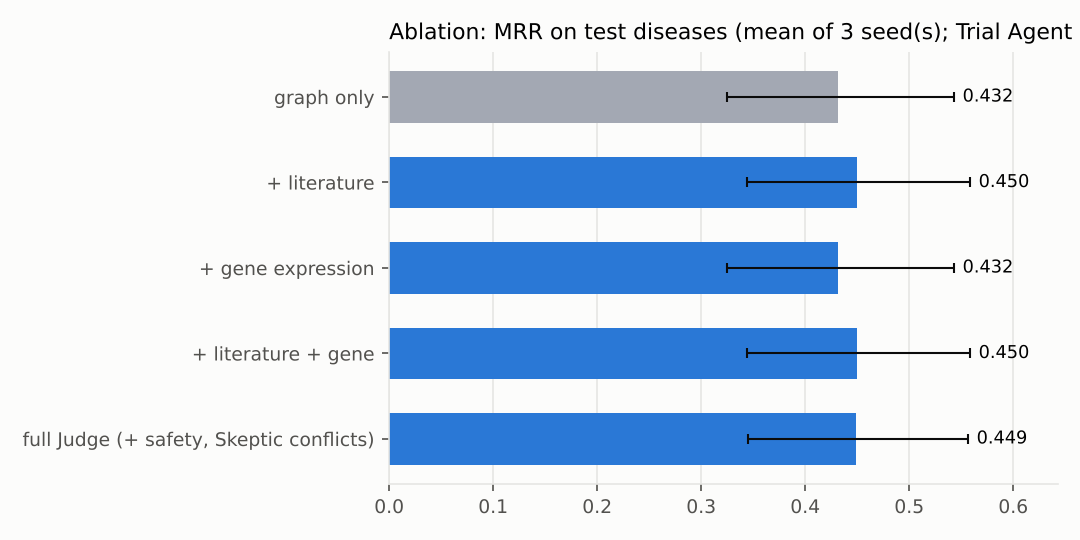
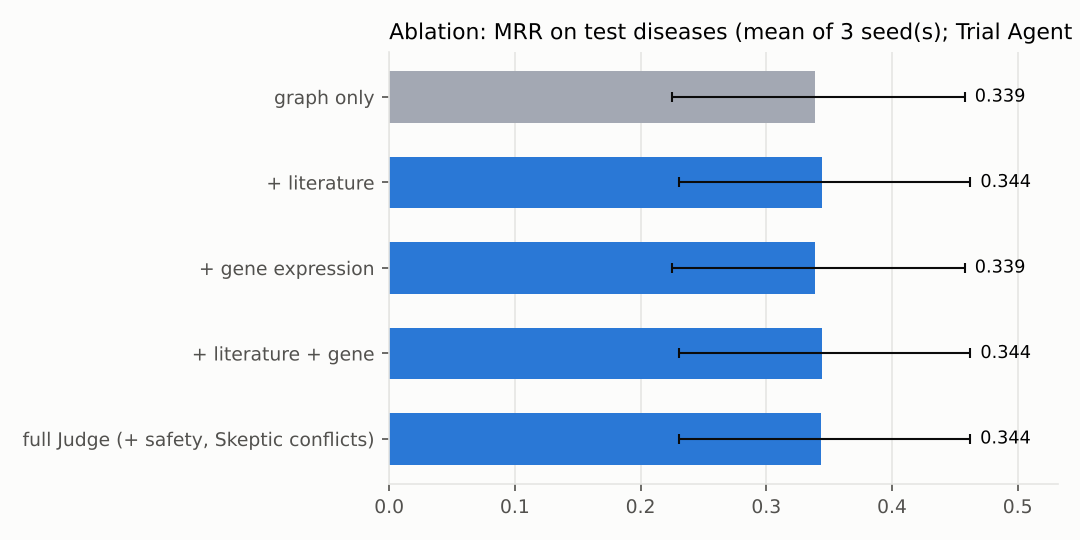
Validation report and figures on the corrected split

diff --git a/reports/VALIDATION.md b/reports/VALIDATION.md
@@ -4,25 +4,62 @@ All numbers below were measured by the project's own pipeline. Nothing is copied
 
 ## 1. Disease-held-out link prediction (zero-shot)
 
-Test set: 2098 drug–disease pairs (indication + off-label) over 229 held-out diseases. Each true drug is ranked among 2,755 approved drugs, with the disease's other true drugs filtered out. A labelled disease within two MONDO hops of a test disease is also held out (no parent, child or sibling leakage). Brackets: 95% bootstrap CI, resampling diseases.
+Test set: 2196 drug–disease pairs (indication + off-label) over 227 held-out diseases. Each true drug is ranked among 2,755 approved drugs, with the disease's other true drugs filtered out. Diseases joined by a direct MONDO link (parent, child or near-duplicate) are always on the same side of the split, so no test disease has such a neighbour in training (checked by `tests/test_data.py`). Brackets: 95% bootstrap CI, resampling diseases.
 
 | Model | MRR | Hits@1 | Hits@10 | Hits@50 | Median rank | AUROC |
 |---|---|---|---|---|---|---|
-| Random | 0.004 [0.002–0.005] | 0.000 | 0.005 [0.002–0.008] | 0.019 | 1400 | 0.499 |
-| Popularity (drug degree) | 0.135 [0.104–0.168] | 0.101 | 0.175 [0.137–0.220] | 0.256 | 291 | 0.830 |
-| Network proximity (PPI) | 0.038 [0.022–0.057] | 0.026 | 0.048 [0.027–0.072] | 0.094 | 748 | 0.668 |
-| Similar-disease kNN | 0.381 [0.310–0.457] | 0.330 | 0.472 [0.399–0.550] | 0.588 | 13 | 0.887 |
-| TransE (PyKEEN, 25 ep.) | 0.051 [0.039–0.064] | 0.027 | 0.092 [0.072–0.114] | 0.211 | 379 | 0.785 |
-| RotatE (PyKEEN, 25 ep.) | 0.031 [0.024–0.041] | 0.008 | 0.070 [0.052–0.092] | 0.215 | 304 | 0.799 |
-| R-GCN episodic, seed 7 | 0.290 [0.229–0.356] | 0.230 | 0.415 [0.345–0.488] | 0.555 | 29 | 0.883 |
-| R-GCN episodic, seed 13 | 0.292 [0.229–0.358] | 0.231 | 0.429 [0.355–0.504] | 0.568 | 20 | 0.870 |
-| R-GCN episodic, seed 42 | 0.292 [0.237–0.358] | 0.235 | 0.410 [0.344–0.479] | 0.549 | 28 | 0.888 |
-| R-GCN episodic, 3-seed ensemble | 0.349 [0.284–0.418] | 0.291 | 0.472 [0.400–0.548] | 0.617 | 13 | 0.898 |
-| **Hybrid Graph Scout: R-GCN ensemble + kNN (deployed)** | 0.393 [0.323–0.467] | 0.335 | 0.517 [0.443–0.593] | 0.635 | 10 | 0.901 |
+| Random | 0.003 [0.002–0.004] | 0.000 | 0.004 [0.002–0.007] | 0.019 | 1363 | 0.504 |
+| Popularity (drug degree) | 0.172 [0.139–0.204] | 0.134 | 0.222 [0.181–0.262] | 0.295 | 279 | 0.853 |
+| Network proximity (PPI) | 0.058 [0.037–0.080] | 0.041 | 0.079 [0.052–0.109] | 0.127 | 727 | 0.680 |
+| Similar-disease kNN | 0.261 [0.192–0.331] | 0.222 | 0.315 [0.244–0.386] | 0.423 | 97 | 0.877 |
+| TransE (PyKEEN, 25 ep.) | 0.040 [0.032–0.048] | 0.014 | 0.089 [0.071–0.107] | 0.226 | 382 | 0.789 |
+| RotatE (PyKEEN, 25 ep.) | 0.038 [0.027–0.052] | 0.009 | 0.099 [0.072–0.128] | 0.265 | 378 | 0.780 |
+| R-GCN, no pre-trained features, seed 7 | 0.198 [0.141–0.259] | 0.162 | 0.271 [0.209–0.341] | 0.390 | 139 | 0.844 |
+| R-GCN, no pre-trained features, seed 13 | 0.213 [0.158–0.272] | 0.178 | 0.287 [0.223–0.354] | 0.407 | 147 | 0.809 |
+| R-GCN, no pre-trained features, seed 42 | 0.214 [0.154–0.276] | 0.175 | 0.288 [0.222–0.361] | 0.392 | 144 | 0.855 |
+| R-GCN, no pre-trained features, 3-seed ensemble | 0.252 [0.194–0.315] | 0.209 | 0.341 [0.269–0.415] | 0.444 | 106 | 0.860 |
+| Hybrid without pre-trained features (ensemble + kNN) | 0.283 [0.214–0.351] | 0.241 | 0.361 [0.286–0.435] | 0.464 | 90 | 0.862 |
+| R-GCN + disease/drug features, seed 7 | 0.276 [0.219–0.333] | 0.217 | 0.391 [0.327–0.458] | 0.557 | 32 | 0.908 |
+| R-GCN + disease/drug features, seed 13 | 0.271 [0.218–0.328] | 0.225 | 0.355 [0.293–0.416] | 0.557 | 37 | 0.911 |
+| R-GCN + disease/drug features, seed 42 | 0.251 [0.199–0.309] | 0.193 | 0.358 [0.297–0.420] | 0.536 | 38 | 0.913 |
+| R-GCN + disease/drug features, 3-seed ensemble | 0.284 [0.231–0.342] | 0.226 | 0.390 [0.330–0.451] | 0.582 | 27 | 0.922 |
+| **Hybrid Graph Scout: featured R-GCN ensemble + kNN (deployed)** | 0.319 [0.254–0.381] | 0.266 | 0.405 [0.333–0.476] | 0.572 | 29 | 0.921 |
 
-R-GCN mean over 3 seeds: MRR 0.292 ± 0.001 (sd), Hits@10 0.418 ± 0.008.
+R-GCN + disease/drug features, mean over 3 seeds: MRR 0.266 ± 0.011 (sd), Hits@10 0.368 ± 0.016.
 
-**Design iteration (reported for transparency).** A first version excluded *all* drug–disease edges from message passing. On the same test set it reached MRR 0.298, 0.289, 0.262 (seeds 7/13/42; ensemble 0.338), below the similar-disease kNN baseline. The final model uses TxGNN-style episodic training: training diseases outside the current supervision episode keep their drug edges in the message-passing graph; held-out diseases never have any.
+R-GCN, no pre-trained features, mean over 3 seeds: MRR 0.208 ± 0.007 (sd), Hits@10 0.282 ± 0.008.
+
+**A leak we found and removed.** An earlier split held out ontology neighbours only two links around a seed disease. 68 of its 233 test diseases still had a direct MONDO neighbour, often a near-duplicate (*type 1 diabetes mellitus* / *IDDM 1*, *endometrial cancer* / *endometrial carcinoma*), in training. Every number on that split was inflated; the similar-disease kNN baseline, which copies the drugs of the closest training disease, profited most. Earlier-split results are archived in `reports/split_v1/`.
+
+| Model | MRR, leaky split | MRR, corrected split |
+|---|---|---|
+| Similar-disease kNN | 0.381 | 0.261 |
+| Popularity (drug degree) | 0.135 | 0.172 |
+| R-GCN + disease/drug features, 3-seed ensemble | 0.349 | 0.284 |
+| **Hybrid Graph Scout: featured R-GCN ensemble + kNN (deployed)** | 0.393 | 0.319 |
+
+(The earlier split's R-GCN had no pre-trained features, so its rows compare different models; the kNN and popularity rows compare like with like.)
+
+**Paired comparisons.** Both models scored on the same test pairs; diseases resampled jointly (5,000 bootstrap draws). p is the share of draws in which model A is not better.
+
+| Comparison | MRR difference [95% CI] | p | Hits@10 difference [95% CI] | p |
+|---|---|---|---|---|
+| deployed hybrid vs similar-disease kNN | +0.058 [+0.036, +0.082] | 0.0000 | +0.091 [+0.059, +0.128] | 0.0000 |
+| pre-trained features in the hybrid (with vs without) | +0.037 [+0.018, +0.056] | 0.0000 | +0.044 [+0.021, +0.068] | 0.0002 |
+| pre-trained features in the R-GCN ensemble (with vs without) | +0.032 [+0.003, +0.060] | 0.0178 | +0.050 [+0.015, +0.085] | 0.0036 |
+| featured R-GCN ensemble alone vs kNN | +0.023 [-0.017, +0.062] | 0.1234 | +0.076 [+0.033, +0.120] | 0.0004 |
+
+## 1b. Which pre-trained features help?
+
+Seed 7, same split and training budget; only the node features differ. Chosen on validation diseases.
+
+| Features | Val MRR | Val Hits@10 | Test MRR | Test Hits@10 | Test median rank |
+|---|---|---|---|---|---|
+| no pre-trained features | 0.292 | 0.345 | 0.198 [0.141–0.259] | 0.271 | 139 |
+| disease text + drug structure (deployed) | 0.294 | 0.364 | 0.276 [0.219–0.333] | 0.391 | 32 |
+| disease text + drug structure + protein sequence | 0.283 | 0.353 | 0.241 [0.191–0.295] | 0.342 | 35 |
+
+Disease definitions are embedded after removing every sentence about treatment and masking every drug name, so a held-out disease's text cannot name its drugs. Protein sequence embeddings did not help and are not used in the deployed model.
 
 ## 2. Rediscovery of known repurposings
 
@@ -30,52 +67,52 @@ The disease is held out from training entirely. Baricitinib → COVID-19 is **no
 
 | Drug → disease | Model | Disease features | Rank |
 |---|---|---|---|
-| Sildenafil → erectile dysfunction (disease) | held-out ensemble + kNN | PrimeKG graph only | **2** / 2745 |
-| Thalidomide → plasma cell myeloma | held-out ensemble + kNN | PrimeKG graph only | **333** / 2731 |
-| Minoxidil → alopecia | held-out ensemble + kNN | PrimeKG graph only | **1173** / 2755 |
-| Baricitinib → COVID-19 | held-out ensemble + kNN | PrimeKG graph only | **282** / 2755 |
-| Sildenafil → erectile dysfunction (disease) | production ensemble + kNN | PrimeKG graph only | **3** / 2745 |
-| Thalidomide → plasma cell myeloma | production ensemble + kNN | PrimeKG graph only | **1147** / 2731 |
-| Minoxidil → alopecia | production ensemble + kNN | PrimeKG graph only | **1379** / 2755 |
-| Baricitinib → COVID-19 | production ensemble + kNN | PrimeKG graph only | **265** / 2755 |
-| Sildenafil → erectile dysfunction (disease) | split_s13 | PrimeKG graph only | **60** / 2745 |
-| Thalidomide → plasma cell myeloma | split_s13 | PrimeKG graph only | **635** / 2731 |
-| Minoxidil → alopecia | split_s13 | PrimeKG graph only | **1896** / 2755 |
-| Baricitinib → COVID-19 | split_s13 | PrimeKG graph only | **166** / 2755 |
-| Sildenafil → erectile dysfunction (disease) | split_s13 | PrimeKG + 27 Open Targets genes (genetics/expression/pathways/animal models; no drug or literature evidence) | **502** / 2745 |
-| Thalidomide → plasma cell myeloma | split_s13 | PrimeKG + 100 Open Targets genes (genetics/expression/pathways/animal models; no drug or literature evidence) | **571** / 2731 |
-| Minoxidil → alopecia | split_s13 | PrimeKG + 98 Open Targets genes (genetics/expression/pathways/animal models; no drug or literature evidence) | **1595** / 2755 |
-| Baricitinib → COVID-19 | split_s13 | PrimeKG + 100 Open Targets genes (genetics/expression/pathways/animal models; no drug or literature evidence) | **275** / 2755 |
-| Sildenafil → erectile dysfunction (disease) | split_s42 | PrimeKG graph only | **17** / 2745 |
-| Thalidomide → plasma cell myeloma | split_s42 | PrimeKG graph only | **569** / 2731 |
-| Minoxidil → alopecia | split_s42 | PrimeKG graph only | **562** / 2755 |
-| Baricitinib → COVID-19 | split_s42 | PrimeKG graph only | **300** / 2755 |
-| Sildenafil → erectile dysfunction (disease) | split_s42 | PrimeKG + 27 Open Targets genes (genetics/expression/pathways/animal models; no drug or literature evidence) | **149** / 2745 |
-| Thalidomide → plasma cell myeloma | split_s42 | PrimeKG + 100 Open Targets genes (genetics/expression/pathways/animal models; no drug or literature evidence) | **725** / 2731 |
-| Minoxidil → alopecia | split_s42 | PrimeKG + 98 Open Targets genes (genetics/expression/pathways/animal models; no drug or literature evidence) | **665** / 2755 |
-| Baricitinib → COVID-19 | split_s42 | PrimeKG + 100 Open Targets genes (genetics/expression/pathways/animal models; no drug or literature evidence) | **540** / 2755 |
-| Sildenafil → erectile dysfunction (disease) | split_s7 | PrimeKG graph only | **1** / 2745 |
-| Thalidomide → plasma cell myeloma | split_s7 | PrimeKG graph only | **119** / 2731 |
-| Minoxidil → alopecia | split_s7 | PrimeKG graph only | **1134** / 2755 |
-| Baricitinib → COVID-19 | split_s7 | PrimeKG graph only | **310** / 2755 |
-| Sildenafil → erectile dysfunction (disease) | split_s7 | PrimeKG + 27 Open Targets genes (genetics/expression/pathways/animal models; no drug or literature evidence) | **2** / 2745 |
-| Thalidomide → plasma cell myeloma | split_s7 | PrimeKG + 100 Open Targets genes (genetics/expression/pathways/animal models; no drug or literature evidence) | **214** / 2731 |
-| Minoxidil → alopecia | split_s7 | PrimeKG + 98 Open Targets genes (genetics/expression/pathways/animal models; no drug or literature evidence) | **560** / 2755 |
-| Baricitinib → COVID-19 | split_s7 | PrimeKG + 100 Open Targets genes (genetics/expression/pathways/animal models; no drug or literature evidence) | **1404** / 2755 |
+| Sildenafil → erectile dysfunction (disease) | held-out ensemble + kNN | PrimeKG graph + disease text, drug structure | **3** / 2745 |
+| Thalidomide → plasma cell myeloma | held-out ensemble + kNN | PrimeKG graph + disease text, drug structure | **207** / 2731 |
+| Minoxidil → alopecia | held-out ensemble + kNN | PrimeKG graph + disease text, drug structure | **1292** / 2755 |
+| Baricitinib → COVID-19 | held-out ensemble + kNN | PrimeKG graph + disease text, drug structure | **20** / 2755 |
+| Sildenafil → erectile dysfunction (disease) | production ensemble + kNN | PrimeKG graph + disease text, drug structure | **3** / 2745 |
+| Thalidomide → plasma cell myeloma | production ensemble + kNN | PrimeKG graph + disease text, drug structure | **286** / 2731 |
+| Minoxidil → alopecia | production ensemble + kNN | PrimeKG graph + disease text, drug structure | **991** / 2755 |
+| Baricitinib → COVID-19 | production ensemble + kNN | PrimeKG graph + disease text, drug structure | **21** / 2755 |
+| Sildenafil → erectile dysfunction (disease) | split_s13 | PrimeKG graph + disease text, drug structure | **3** / 2745 |
+| Thalidomide → plasma cell myeloma | split_s13 | PrimeKG graph + disease text, drug structure | **344** / 2731 |
+| Minoxidil → alopecia | split_s13 | PrimeKG graph + disease text, drug structure | **1599** / 2755 |
+| Baricitinib → COVID-19 | split_s13 | PrimeKG graph + disease text, drug structure | **32** / 2755 |
+| Sildenafil → erectile dysfunction (disease) | split_s13 | PrimeKG graph + disease text, drug structure + 27 Open Targets genes (genetics/expression/pathways/animal models; no drug or literature evidence) | **8** / 2745 |
+| Thalidomide → plasma cell myeloma | split_s13 | PrimeKG graph + disease text, drug structure + 100 Open Targets genes (genetics/expression/pathways/animal models; no drug or literature evidence) | **338** / 2731 |
+| Minoxidil → alopecia | split_s13 | PrimeKG graph + disease text, drug structure + 98 Open Targets genes (genetics/expression/pathways/animal models; no drug or literature evidence) | **1543** / 2755 |
+| Baricitinib → COVID-19 | split_s13 | PrimeKG graph + disease text, drug structure + 100 Open Targets genes (genetics/expression/pathways/animal models; no drug or literature evidence) | **89** / 2755 |
+| Sildenafil → erectile dysfunction (disease) | split_s42 | PrimeKG graph + disease text, drug structure | **5** / 2745 |
+| Thalidomide → plasma cell myeloma | split_s42 | PrimeKG graph + disease text, drug structure | **186** / 2731 |
+| Minoxidil → alopecia | split_s42 | PrimeKG graph + disease text, drug structure | **995** / 2755 |
+| Baricitinib → COVID-19 | split_s42 | PrimeKG graph + disease text, drug structure | **11** / 2755 |
+| Sildenafil → erectile dysfunction (disease) | split_s42 | PrimeKG graph + disease text, drug structure + 27 Open Targets genes (genetics/expression/pathways/animal models; no drug or literature evidence) | **101** / 2745 |
+| Thalidomide → plasma cell myeloma | split_s42 | PrimeKG graph + disease text, drug structure + 100 Open Targets genes (genetics/expression/pathways/animal models; no drug or literature evidence) | **210** / 2731 |
+| Minoxidil → alopecia | split_s42 | PrimeKG graph + disease text, drug structure + 98 Open Targets genes (genetics/expression/pathways/animal models; no drug or literature evidence) | **880** / 2755 |
+| Baricitinib → COVID-19 | split_s42 | PrimeKG graph + disease text, drug structure + 100 Open Targets genes (genetics/expression/pathways/animal models; no drug or literature evidence) | **24** / 2755 |
+| Sildenafil → erectile dysfunction (disease) | split_s7 | PrimeKG graph + disease text, drug structure | **2** / 2745 |
+| Thalidomide → plasma cell myeloma | split_s7 | PrimeKG graph + disease text, drug structure | **253** / 2731 |
+| Minoxidil → alopecia | split_s7 | PrimeKG graph + disease text, drug structure | **1438** / 2755 |
+| Baricitinib → COVID-19 | split_s7 | PrimeKG graph + disease text, drug structure | **12** / 2755 |
+| Sildenafil → erectile dysfunction (disease) | split_s7 | PrimeKG graph + disease text, drug structure + 27 Open Targets genes (genetics/expression/pathways/animal models; no drug or literature evidence) | **7** / 2745 |
+| Thalidomide → plasma cell myeloma | split_s7 | PrimeKG graph + disease text, drug structure + 100 Open Targets genes (genetics/expression/pathways/animal models; no drug or literature evidence) | **282** / 2731 |
+| Minoxidil → alopecia | split_s7 | PrimeKG graph + disease text, drug structure + 98 Open Targets genes (genetics/expression/pathways/animal models; no drug or literature evidence) | **903** / 2755 |
+| Baricitinib → COVID-19 | split_s7 | PrimeKG graph + disease text, drug structure + 100 Open Targets genes (genetics/expression/pathways/animal models; no drug or literature evidence) | **23** / 2755 |
 
 ## 3. Ablation of evidence agents
 
-Top-20 graph candidates of 80 randomly chosen test diseases are re-ranked; true drugs outside the top-20 keep their graph rank. The Trial Agent is off. Judge weights were fitted on 80 validation diseases: `{"G": 1.3511, "L": 0.6932, "E": 0.0, "D": 0.4}`, λs = 0.4242, λc = 0.4074.
+Top-20 graph candidates of 80 randomly chosen test diseases are re-ranked; true drugs outside the top-20 keep their graph rank. The Trial Agent is off. Judge weights were fitted on 80 validation diseases: `{"G": 1.6388, "L": 0.3612, "E": 0.0, "D": 0.4}`, λs = 0.0, λc = 0.6323.
 
 | Variant | MRR (seed 7) | MRR (seed 13) | MRR (seed 42) | Hits@1 (mean) | Hits@10 (mean) |
 |---|---|---|---|---|---|
-| graph only | 0.418 [0.314–0.530] | 0.428 [0.317–0.544] | 0.449 [0.345–0.555] | 0.363 | 0.580 |
-| + literature | 0.449 [0.344–0.556] | 0.437 [0.327–0.548] | 0.466 [0.362–0.572] | 0.382 | 0.587 |
-| + gene expression | 0.418 [0.314–0.530] | 0.428 [0.317–0.544] | 0.449 [0.345–0.555] | 0.363 | 0.580 |
-| + literature + gene | 0.449 [0.344–0.556] | 0.437 [0.327–0.548] | 0.466 [0.362–0.572] | 0.382 | 0.587 |
-| full Judge (+ safety, Skeptic conflicts) | 0.441 [0.337–0.548] | 0.439 [0.332–0.548] | 0.468 [0.365–0.574] | 0.380 | 0.586 |
+| graph only | 0.345 [0.224–0.466] | 0.346 [0.237–0.462] | 0.325 [0.215–0.445] | 0.280 | 0.454 |
+| + literature | 0.350 [0.230–0.470] | 0.350 [0.240–0.466] | 0.332 [0.222–0.451] | 0.286 | 0.458 |
+| + gene expression | 0.345 [0.224–0.466] | 0.346 [0.237–0.462] | 0.325 [0.215–0.445] | 0.280 | 0.454 |
+| + literature + gene | 0.350 [0.230–0.470] | 0.350 [0.240–0.466] | 0.332 [0.222–0.451] | 0.286 | 0.458 |
+| full Judge (+ safety, Skeptic conflicts) | 0.349 [0.229–0.469] | 0.350 [0.241–0.466] | 0.332 [0.222–0.451] | 0.284 | 0.458 |
 
-Coverage: 48% of candidate pairs have ≥1 co-mentioning PubMed abstract; 0.3% have L1000 evidence (11 of 80 diseases have a GEO signature). Docking is not part of the ablation (≈20 Vina runs per disease are too costly at this scale); it is run per disease in the app.
+Coverage: 39% of candidate pairs have ≥1 co-mentioning PubMed abstract; 0.1% have L1000 evidence (7 of 80 diseases have a GEO signature). Docking is not part of the ablation (≈20 Vina runs per disease are too costly at this scale); it is run per disease in the app.
 
 **Leakage warning.** Literature co-mention rediscovers what is already published. Known indications are, by construction, heavily published, so the literature channel inflates validation metrics. It is reported separately here, and in the app it is one channel among several.
 
@@ -85,8 +122,23 @@ Top-10 NOVEL graph predictions (PrimeKG indications removed) for held-out test d
 
 | Set | Share with a registered trial | 95% CI | pairs |
 |---|---|---|---|
-| R-GCN top-10 novel | 27.6% | 20.9%–34.4% | 710 |
-| 10 random approved | 7.8% | 5.2%–11.3% | 790 |
+| R-GCN top-10 novel | 26.3% | 19.5%–34.0% | 712 |
+| 10 random approved | 4.3% | 2.3%–6.5% | 770 |
+
+## 4b. Direction-of-effect check
+
+Top-20 deployed candidates for each test disease. A candidate can be checked when ChEMBL records an inhibitor/activator action on a target whose direction in the disease is known (expert-curated loss/gain-of-function genetics; OncoKB oncogene/tumour-suppressor roles for cancers). Subtype-dependent cases (genes pointing both ways) are reported as mixed and not counted.
+
+| Candidates | checked | flagged "wrong direction" | "right direction" |
+|---|---|---|---|
+| true indications | 28 of 882 | 29% | 71% |
+| other candidates | 61 of 3798 | 21% | 79% |
+
+Coverage is small, so the check is shown as a warning and does not change scores. With every Open Targets direction label (not only curated ones) it did not separate the groups at all, because variant-consequence labels call oncogenes such as EGFR and JAK2 loss-of-function.
+
+## 4c. Blood-brain-barrier estimate
+
+Physicochemical CNS rules (Hitchcock & Pennington 2006, one rule may be missed) plus LAT1/GLUT1/MCT1 transporter substrates. Against the ATC classification of approved drugs: 95.8% of 337 nervous-system drugs are judged brain-penetrant, against 57.3% of 1552 other drugs. Shown as a warning for nervous-system diseases; it does not change scores.
 
 ## 5. Rare diseases and data poverty
 
@@ -94,14 +146,14 @@ Deployed hybrid Graph Scout on the same test pairs, grouped by disease.
 
 | Group | diseases | pairs | MRR | Hits@10 |
 |---|---|---|---|---|
-| rare (Orphanet) | 100 | 776 | 0.422 [0.304–0.537] | 0.515 [0.387–0.636] |
-| common / not in Orphanet | 129 | 1322 | 0.376 [0.286–0.467] | 0.518 [0.419–0.612] |
-| ≤ 10 disease genes in graph | 136 | 763 | 0.356 [0.261–0.459] | 0.503 [0.395–0.615] |
-| > 10 disease genes in graph | 93 | 1335 | 0.414 [0.322–0.517] | 0.525 [0.425–0.634] |
+| rare (Orphanet) | 87 | 596 | 0.498 [0.372–0.615] | 0.601 [0.478–0.702] |
+| common / not in Orphanet | 140 | 1600 | 0.253 [0.195–0.320] | 0.333 [0.261–0.416] |
+| ≤ 10 disease genes in graph | 156 | 1104 | 0.213 [0.163–0.275] | 0.325 [0.255–0.412] |
+| > 10 disease genes in graph | 71 | 1092 | 0.427 [0.323–0.546] | 0.486 [0.378–0.608] |
 
 ## 6. What this does not show
 
-- PrimeKG has no timestamps, so a strict time-split is not possible; the disease-held-out split with ontology-neighbour removal is used instead.
+- PrimeKG has no timestamps, so a strict time-split is not possible; the disease-held-out split with ontology-neighbour grouping is used instead.
 - Related diseases that are *not* MONDO neighbours (e.g. psoriasis vs psoriatic arthritis) can still sit on opposite sides of the split.
 - PrimeKG indications are incomplete: a top-ranked drug that is not a recorded indication is not necessarily wrong.
 - Docking with rigid receptors and Vina scores are coarse; decoy z-scores are only a sanity filter.

diff --git a/README.md b/README.md
@@ -200,6 +200,7 @@ Each true drug is ranked against **all 2,755 approved drugs**. Brackets are 95% 
 | Model | MRR | Hits@1 | Hits@10 | Median rank |
 |---|---|---|---|---|
 | Random | 0.003 | 0.000 | 0.004 | 1,363 |
+| TransE / RotatE (PyKEEN) | 0.040 / 0.038 | 0.014 / 0.009 | 0.089 / 0.099 | 382 / 378 |
 | Network proximity | 0.058 | 0.041 | 0.079 | 727 |
 | Popularity | 0.172 | 0.134 | 0.222 | 279 |
 | Similar-disease kNN | 0.261 [0.19–0.33] | 0.222 | 0.315 | 97 |
